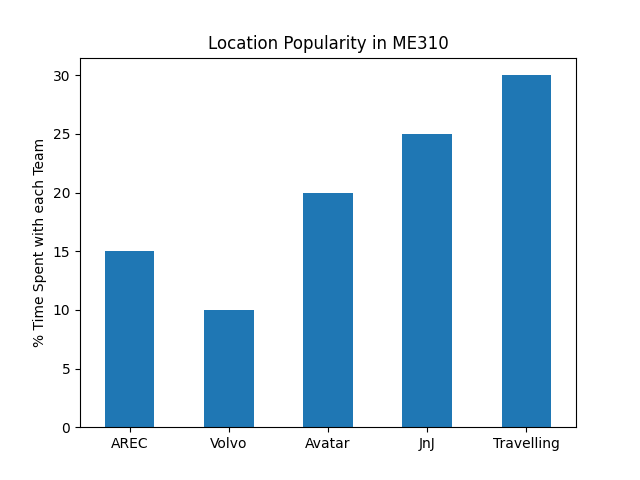
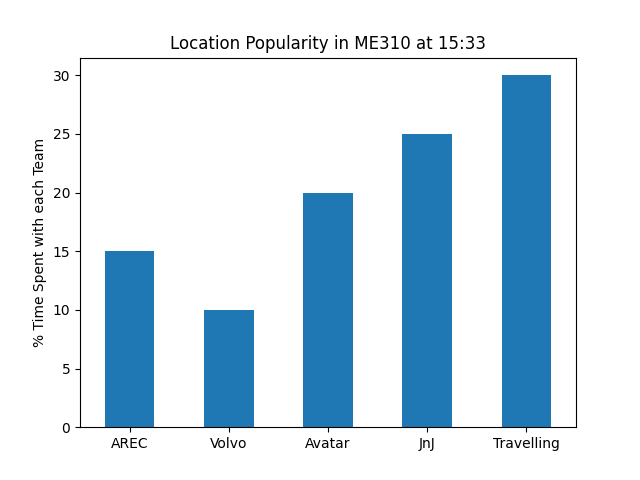
feat|chore: late product bazaar code update
code hasn't been touched in a week, but should get this comitted SOMEtime, lol

Changed region(s): [[0.2812, 0.0625, 0.75, 0.125]]

diff --git a/Functional-System/Heatmap.py b/Functional-System/Heatmap.py
@@ -5,6 +5,7 @@ import sys
 import math
 import numpy as np
 import pandas as pd
+import time
 import matplotlib.pyplot as plt
 import readPosText  # local lib
 import pullPos_InfluxDB as getPositions
@@ -17,6 +18,11 @@ from PIL import Image
 image_xy_zero = (67.0, 0.)
 w = 1674
 h = 1371
+magScalar = 0.1 # normal dist mangitude scalar
+
+# global var
+filename = 'images/test' #def save area
+saveProgress = False # default to not saving in-progress pictures
 
 
 def z_amp(x, y, s, mx, my):
@@ -31,7 +37,7 @@ def z_amp(x, y, s, mx, my):
     # >>> z_amp(1,1,1,1,1)
     # 1.0
     # """
-    mag = 0.1 * 255/(s**2)
+    mag = magScalar * 255/(s**2)
     z = round(mag*math.exp(-((mx - x)**2 + (my - y)**2)/(2*(30*s)**2)))
     return z
 
@@ -44,7 +50,7 @@ def z_radius(s):
         return int(225)
     else:
         # print(f's = {s}')
-        mag = 0.1 * 255/(s**2)
+        mag = magScalar * 255/(s**2)
         # print(s, mag)
         radius = math.sqrt(np.abs((2*(30*s)**2) * math.log(mag)))
         return int(round(radius *1.25)) # include a fudge factor
@@ -76,6 +82,8 @@ def plotPoints(df, mat):
     my = int(df['position_y']*100 + image_xy_zero[1])
     my = h - my # reverse direction
     # mx = w - mx # reverse reverse!
+    if (mx < 370 and my < 300):
+        return #skip if not "worn"
     radius = z_radius(s) #how far do we need to search?
 
     for y in range(my - radius, my + radius):
@@ -127,6 +135,10 @@ def overlayOnBackground(mat, color):
 def LocationPopularity(mat):
     totalSum = np.sum(mat.sum()) #total summation
     # print(totalSum)
+    if (totalSum < 1):
+        #something very bad happened, skip!
+        print('Utilization is too low!')
+        return
 
     locales = {'AREC':((0,328), (460, 930)), 'Volvo':((0,938),(460, 1390)),\
                'Avatar':((902, 910), (1364, 1432)), 'JnJ':((902, 380), (1364, 900))}
@@ -138,27 +150,27 @@ def LocationPopularity(mat):
         sums[key] = np.sum(mat[indices[0][0]:indices[1][0], indices[0][1]:indices[1][1]])
         percentages[key] = [sums[key]/totalSum * 100]
         remaining -= percentages[key][0] # how much is left?
-        print(f'{key}: {sums[key]}, {percentages[key]}%')
+        # print(f'{key}: {sums[key]}, {percentages[key]}%')
     percentages['Travelling'] = [remaining]
     df = pd.DataFrame(percentages).T
-    print(df)
+    # print(df)
 
     # send to InfluxDB
     # pushLocPop.writeLocationPop(percentages)
-
-    # datar = list(percentages.values())
-    # labellos = list(percentages.columns)
-    # plt.bar(range(len(percentages)), datar, tick_label=labellos)
-    # plt.show()
-    # df = percentages.T # rotate for clarity
     plot = df.plot.bar(legend=False, rot=0, \
-                       title='Location Popularity in ME310',\
+                       title=f"Location Popularity in ME310 at {time.strftime('%H:%M')}",\
                        ylabel='% Time Spent with each Team')
     fig = plot.get_figure()
-    fig.savefig('images/DWM-LocPop.png')
+    return fig
+    # fig.savefig(filename+ '_LocPop.png')
 
-def main():
-    args = sys.argv[1:]
+def main(args):
+    filename = args[0] # where to save?
+    if (len(args) > 0):
+        saveProgress = True #enable us to save other images
+        timestr = time.strftime("%y%m%d-%H%M%S")
+    print(filename + '/bckgnd/' + timestr + '.jpg')
+
     points_df = pd.DataFrame()
 
     # open the file, read in the positions
@@ -173,16 +185,19 @@ def main():
 
 
     out = remapColorScheme(mat)
-    out.save('images/DWM_Test1.jpg')
+    if saveProgress:
+        out.save(filename + '/bckgnd/' + timestr + '.jpg')
 
     # Location Popularity
-    LocationPopularity(mat)
+    fig = LocationPopularity(mat)
+    if (fig is not None):
+        fig.savefig(filename+ '/LocPop/' + timestr + '.jpg')
 
     #overlay with background image
-    # overlay = overlayOnBackground(mat, out)
-    # overlay.save('images/DWM_test2_overlay.jpg')
+    overlay = overlayOnBackground(mat, out)
+    overlay.save(filename + '/overlay/' + timestr + '.jpg')
 
 if __name__ == '__main__':
-    main()
+    main(sys.argv[1:])
 
 

diff --git a/Functional-System/TimeRepeater.py b/Functional-System/TimeRepeater.py
@@ -1,0 +1,25 @@
+import schedule 
+import time 
+import Heatmap
+
+
+def func():
+    print("this is python")
+
+def genHeatmap():
+    print(f"Running Heatmap now @ {time.strftime('%H:%M')}")
+    Heatmap.main(['../../FunctionalSystem/Product-Bazaar-Images/testing'])
+    print('done!')
+
+# schedule.every(5).seconds.do(func)
+schedule.every(5).minutes.do(genHeatmap)
+
+def main():
+    genHeatmap() #test run
+    while True:
+        schedule.run_pending()
+        # time.sleep(1)
+
+
+if __name__ == '__main__':
+    main()

diff --git a/Functional-System/pushLocPop_InfluxDB.py b/Functional-System/pushLocPop_InfluxDB.py
@@ -36,7 +36,7 @@ def main():
     df = pd.DataFrame({'AREC':[15], 'Volvo':[10], 'Avatar':[20], 'JnJ': [25], 'Travelling':[30]})
     df = df.T #transpose for data clarity?
     plot = df.plot.bar(legend=False, rot=0, \
-                       title='Location Popularity in ME310',\
+                       title= f"Location Popularity in ME310 at {time.strftime('%H:%M')}",\
                        ylabel='% Time Spent with each Team')
     fig = plot.get_figure()
     fig.savefig('images/test-LocPop.png')

diff --git a/Functional-System/pullPos_InfluxDB.py b/Functional-System/pullPos_InfluxDB.py
@@ -11,9 +11,12 @@ import pandas as pd
 query = """SELECT *
 FROM "mqtt_consumer"
 WHERE
-time >= timestamp '2023-03-08T03:57:00.000Z' AND time <= timestamp '2023-03-08T04:00:00.000Z'
+time >=now() - interval '5 minutes'
 AND
 ("position_x" IS NOT NULL)"""
+
+### "Good" timestamps - useful data store
+# time >= timestamp '2023-03-08T03:57:00.000Z' AND time <= timestamp '2023-03-08T04:00:00.000Z'
 
 
 def init_client():
